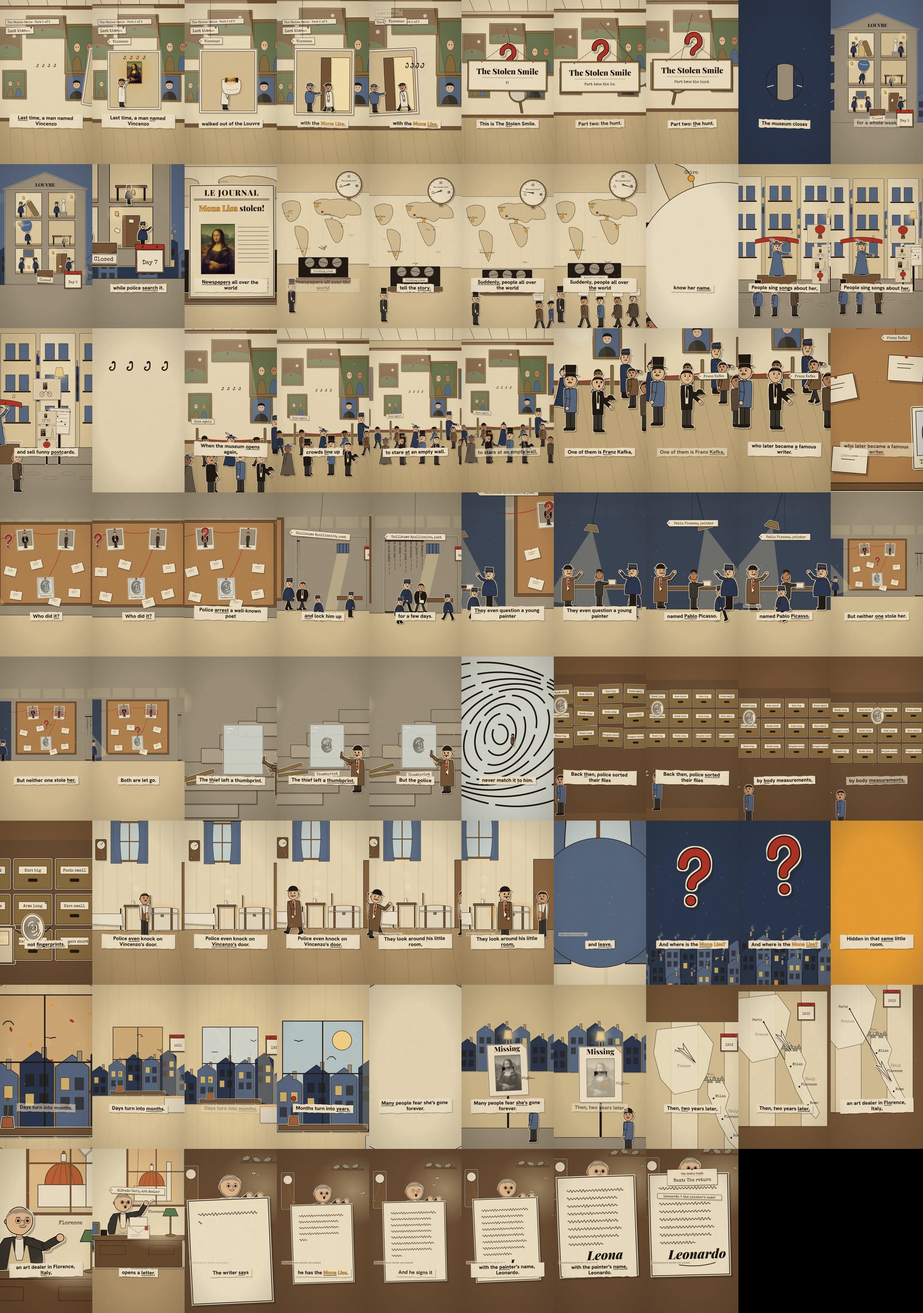
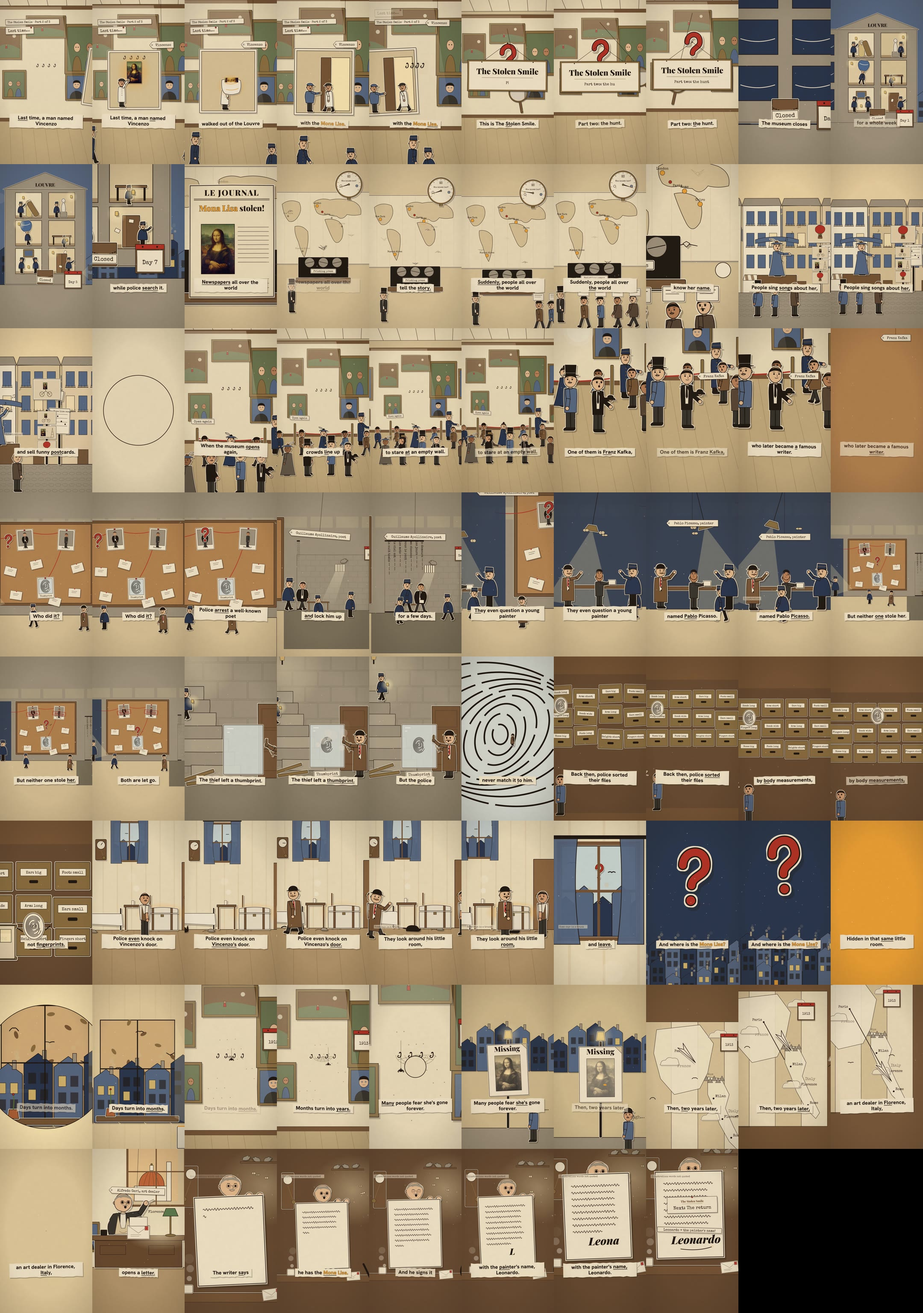
Stolen Smile 2 v1.1: continuity fixes (kit staircase, cell, street; poster; web; tags; end card; shorter pushes), motion_check pass

diff --git a/projects/stolen-smile-2/film/src/scenesB.tsx b/projects/stolen-smile-2/film/src/scenesB.tsx
@@ -6,7 +6,7 @@ import B from './beats.json';
 import {C, Cut, Person, Mona, MonaEyes, Hooks, QMark, Label, Calendar, Magnifier, Stamp, Print, NameTag, rect, ell, ramp, lin, osc, mix, settle, step2, SHADOW, TYPE, SERIF} from './look';
 import {Spider} from './series/characters';
 import {Trunk as KTrunk, Letter as KLetter, Newspaper, Postcard as KPostcard} from './series/props';
-import {LittleRoom, GeriDesk, PaperMap, MAP_CITIES} from './series/sets';
+import {LittleRoom, GeriDesk, PaperMap, MAP_CITIES, Staircase, PrisonCell} from './series/sets';
 import {camAt, Plane, SalonWall, Crowd, Ground, Lamp, Rooftops} from './world';
 
 const CORK = '#B98A5A';
@@ -75,11 +75,8 @@ export const S6: React.FC<{t: number}> = ({t}) => {
         <Stamp x={300} y={560} text="Not him" k={lin(t, B.neither + 0.2, 0.12)} size={46} />
         <Stamp x={780} y={560} text="Not him" k={lin(t, B.neither + 0.75, 0.12)} size={46} rot={6} />
         {/* the cell: stone room, door of bars made of handwriting */}
-        <Cut d={rect(1250, 560, 820, 860, 4)} fill={C.stone} />
-        <rect x={1720} y={640} width={140} height={110} fill={C.duskBlue} stroke={C.ink} strokeWidth={4} />
-        {[1750, 1790, 1830].map((x) => <line key={x} x1={x} y1={640} x2={x} y2={750} stroke={C.ink} strokeWidth={6} />)}
-        <path d={`M1720,750 L${1560 + osc(t, 0.1) * 20},1420 L${1700 + osc(t, 0.1) * 20},1420 L1860,750 Z`} fill="#FFF1C8" opacity={0.35} />
-        <Cut d={rect(1720, 1250, 300, 50, 4)} fill={C.sepia} sw={3} />
+        {/* the kit's prison cell (part 3 uses it), at half scale: x 1250..2090, floor 1420 */}
+        <g transform="translate(1400,670) scale(0.5)"><PrisonCell fr={Math.round(t * 30)} only={['mid', 'actors']} /></g>
         <Person x={poetX} y={1420} s={0.6} coat={C.ink} hat="none" wide={1.35} skin={C.skin[1]} collar walk={walkIn > 0 && walkIn < 1 || (out > 0 && out < 1) ? tt * 1.5 : undefined}
           flip={out > 0} mouth={out > 0 ? 'smile' : 'flat'} brows={shut > 0.5 ? 'worried' : 'flat'} aR={t > B.lock + 0.3 && out === 0 ? [80, 60] : undefined}
           holdR={t > B.lock + 0.3 && out === 0 ? <Cut d={rect(-26, -20, 52, 36, 2)} fill={C.card} sw={2} rim={false} /> : undefined} />
@@ -99,6 +96,11 @@ export const S6: React.FC<{t: number}> = ({t}) => {
           <path d={`M0,400 L-300,1100 L300,1100 Z`} fill="#FFF1C8" opacity={0.28} />
           <Cut d="M-60,420 L60,420 L34,370 L-34,370 Z" fill={C.oldGold} sw={3} />
         </g>
+        {[0, 1, 2].map((m) => { const mx = -550 + Math.sin(t * (2.6 + m * 0.7) + m * 2) * (90 + m * 30), my = 760 + Math.cos(t * (2.1 + m * 0.5) + m) * 60; const fl = Math.abs(Math.sin(t * 38 + m));
+          return <g key={m} transform={`translate(${mx},${my})`}><ellipse cx={-10} cy={0} rx={16} ry={6 + fl * 9} fill={C.paperShade} stroke={C.ink} strokeWidth={2} /><ellipse cx={10} cy={0} rx={16} ry={6 + fl * 9} fill={C.paperShade} stroke={C.ink} strokeWidth={2} /></g>; })}
+        <Person x={540 + Math.sin(t * 0.7 + 1) * 420} y={1560} s={0.45} role="police" walk={t * 1.2 + 3} flip={Math.cos(t * 0.7 + 1) < 0} />
+        <Person x={540 + Math.sin(t * 0.55 + 4) * 480} y={1600} s={0.5} role="detective" walk={t * 1.1 + 1} flip={Math.cos(t * 0.55 + 4) < 0} />
+        {(() => { const hop = Math.max(0, Math.sin(t * 2.7)) * 16; const px = 1760 + Math.sin(t * 0.6) * 40; return <g transform={`translate(${px},${875 - hop}) scale(${Math.cos(t * 0.6) > 0 ? 1 : -1},1)`}><Cut d="M-36,0 Q-40,-36 -4,-40 Q24,-60 40,-36 L52,-30 L36,-24 Q34,8 -36,0 Z" fill={C.stone} sw={2.5} rim={false} /><circle cx={26} cy={-40} r={3.5} fill={C.ink} /></g>; })()}
         <Cut d={rect(-860, 1230, 640, 30, 4)} fill={C.sepia} sw={3} />
         <rect x={-830} y={1260} width={18} height={160} fill={C.ink} /><rect x={-270} y={1260} width={18} height={160} fill={C.ink} />
         <Person x={pcOut > 0 ? mix(-550, 120, pcOut) : -550} y={1420} s={0.58} coat="#3E3A36" hat="none" skin={C.skin[2]} tall={0.95}
@@ -144,21 +146,23 @@ export const S7: React.FC<{t: number}> = ({t}) => {
         <Plane cam={cam} d={1}>
           <g transform={`translate(640,1060) scale(${z}) translate(-640,-1060)`}>
             {/* the back staircase from part 1 */}
-            {[...Array(8)].map((_, i) => <Cut key={i} d={rect(-300 + i * 150, 1500 - i * 110, 900, 120, 3)} fill={i % 2 ? C.stone : '#B4AB9B'} sw={3} rim={false} />)}
-            <Lamp x={120} y={900} h={160} />
+            {/* the kit's back staircase from part 1 (floor 1500 drawn at 1300 here) */}
+            <g transform="translate(0,-200)"><Staircase fr={Math.round(t * 30)} only={['backdrop', 'mid', 'actors']} /></g>
             {/* empty frame bars and the glass box on the steps */}
             <g transform="translate(250,1290) rotate(-18)"><Cut d={rect(-160, -14, 320, 28, 3)} fill={C.oldGold} sw={3} /></g>
             <g transform="translate(320,1330) rotate(-8)"><Cut d={rect(-140, -14, 280, 28, 3)} fill={C.oldGold} sw={3} /></g>
             <Cut d={rect(480, 870, 320, 400, 6)} fill={C.glass} sw={3} op={0.9} />
             <path d="M510,900 L560,900 M510,930 L530,930" stroke="#fff" strokeWidth={6} />
+            {[0, 1].map((q) => { const u = (t * 0.18 + q * 0.5) % 1; const up = u < 0.5; const k2 = up ? u * 2 : (1 - u) * 2; const sx = -120 + k2 * 420, sy = 1280 - k2 * 640;
+              return <g key={q}><Person x={sx} y={sy} s={0.42} role="police" walk={t * 1.3 + q} flip={!up} /><g transform={`translate(${sx + 50},${sy - 150 + Math.sin(t * 3 + q) * 6})`}><ellipse rx={60} ry={60} fill="url(#lampGlow)" /><Cut d={rect(-10, -14, 20, 26, 3)} fill="#E8C979" sw={2} rim={false} /></g></g>; })}
             {printK > 0 && <Print x={640} y={1060} s={0.9} op={printK} />}
             {/* powder cloud */}
-            {[...Array(10)].map((_, i) => { const u = (dust * 3 + i * 0.1) % 1; return dust > 0 && dust < 1 ? <circle key={i} cx={640 + osc(i, 0.37) * 80 + u * 60} cy={1060 - u * 90 + osc(i, 0.21) * 40} r={10 + u * 30} fill="#EDE8DD" opacity={0.6 * (1 - u)} /> : null; })}
+            {[...Array(10)].map((_, i) => { const u = (dust * 3 + i * 0.1) % 1; return dust > 0 && dust < 1 ? <circle key={i} cx={640 + osc(i, 0.37) * 120 + u * 90} cy={1060 - u * 140 + osc(i, 0.21) * 60} r={18 + u * 40} fill="#EDE8DD" opacity={0.6 * (1 - u)} /> : null; })}
             <Label x={640} y={1330} text="Thumbprint" size={34} op={printK} rot={-2} />
           </g>
           {/* the detective with brush and magnifier */}
           <g opacity={1 - dive}>
-            <Person x={mix(960, 900, dust)} y={1500} s={0.75} role="detective" brows="up" flip aR={[100 + osc(tt, 2) * 20 * (dust < 1 ? 1 : 0), 30]} aL={[60, 40]}
+            <Person x={mix(980, 920, dust)} y={1360} s={0.75} role="detective" brows="up" flip aR={[100 + osc(tt, 2) * 20 * (dust < 1 ? 1 : 0), 30]} aL={[60, 40]}
               holdR={<Cut d={rect(-8, -50, 16, 60, 4)} fill={C.sepia} sw={2} rim={false} />} hold={<g transform="scale(0.25)"><Magnifier x={0} y={-100} /></g>} />
           </g>
           {/* inside the print: maze ridges with a tiny detective, straightening into drawers */}
@@ -179,9 +183,10 @@ export const S7: React.FC<{t: number}> = ({t}) => {
         <rect x={-300} y={300} width={1700} height={1500} fill="#6B5038" />
         {DRAWERS.map((lab, i) => {
           const open = i === di && dk > 0.5 ? Math.sin(lin(t, tries[ti][0] + 0.15, 0.6) * Math.PI) * 30 : 0;
+          const idle = i % 3 === 1 && i !== 9 ? Math.max(0, Math.sin(t * (1.1 + i * 0.13) + i)) * 26 : 0;
           const slide = i === 9 ? roomDrawer : 0;
           return (
-            <g key={i} transform={`translate(${dx(i)},${dy(i) + (1 - straighten) * osc(i, 0.3) * 120}) rotate(${(1 - straighten) * (i * 23 % 40 - 20)}) scale(${1 + slide * 0.3})`}>
+            <g key={i} transform={`translate(${dx(i)},${dy(i) + idle + (1 - straighten) * osc(i, 0.3) * 120}) rotate(${(1 - straighten) * (i * 23 % 40 - 20)}) scale(${1 + slide * 0.3 + idle * 0.004})`}>
               <Cut d={rect(-120, -95 + open * 0.3, 240, 190, 4)} fill={C.oldGold} sw={3} />
               <rect x={-92} y={-50} width={184} height={50} fill={C.card} stroke={C.ink} strokeWidth={2} />
               <text x={0} y={-16} textAnchor="middle" fontFamily={TYPE} fontSize={26} fill={C.ink}>{lab}</text>
@@ -212,6 +217,15 @@ export const S7_OUT = {x: 540, y: 960, color: C.paper};
 
 // ------------------------------------------------------------------ 8. the little room: the search (hot/cold), then the reveal
 // layout: door (x 60), bed (150-430), stove (520), table+chair (650), trunk (800-1000), window (760-980, y 520-820)
+// what Vincenzo's window shows: Paris rooftops, chimney smoke, birds; the red "?" rises over the city as the police leave
+const WindowView: React.FC<{t: number; q: number}> = ({t, q}) => (
+  <g>
+    {[0, 1, 2, 3, 4].map((i) => <g key={i}><path d={`M${-20 + i * 70},340 L${-20 + i * 70},${220 - (i % 2) * 40} L${15 + i * 70},${190 - (i % 2) * 40} L${50 + i * 70},${220 - (i % 2) * 40} L${50 + i * 70},340 Z`} fill={i % 2 ? C.duskBlue : C.nightBlue} stroke={C.ink} strokeWidth={2} />
+      <circle cx={30 + i * 70 + Math.sin(t * 0.8 + i) * 6} cy={170 - ((t * 20 + i * 17) % 60)} r={6 + ((t * 20 + i * 17) % 60) * 0.12} fill={C.paperShade} opacity={0.6 * (1 - ((t * 20 + i * 17) % 60) / 60)} /></g>)}
+    {[0, 1].map((i) => { const u = (t * 0.25 + i * 0.5) % 1; return <path key={i} d={`M${u * 300 - 10},${60 + i * 40 - Math.sin(t * 12 + i) * 6} q8,-6 14,0 q6,-6 14,0`} fill="none" stroke={C.ink} strokeWidth={3} />; })}
+    {q > 0 && <g transform={`translate(140,${200 - q * 110}) scale(${0.35 * q})`}><QMark x={0} y={0} s={1} /></g>}
+  </g>
+);
 export const Room: React.FC<{t: number; phase: 'search' | 'reveal'}> = ({t, phase}) => {
   // the kit's LittleRoom (floor 1500) drawn 120 higher so its floor is this part's 1380; my door on the right.
   const fr = Math.round(t * 30);
@@ -230,7 +244,7 @@ export const Room: React.FC<{t: number; phase: 'search' | 'reveal'}> = ({t, phas
   const lidUp = phase === 'reveal' ? ramp(t, B.hidden + 0.1, 0.6) : peek * 0.18;
   const leak = phase === 'reveal' ? 0.6 + lidUp * 0.4 : 0.25 + hot * 0.75;
   const doorOpen = phase === 'search' ? Math.max(ramp(t, B.knock + 0.35, 0.3) * (1 - ramp(t, B.knock + 1.5, 0.3)), ramp(t, B.leave + 0.4, 0.3) * (1 - ramp(t, B.leave + 1.3, 0.3))) : 0;
-  const R = (only: ('backdrop' | 'mid' | 'actors')[]) => <g transform="translate(0,-120)"><LittleRoom fr={fr} only={only} curtain={curtain} bedSheet={crouch} night={false} /></g>;
+  const R = (only: ('backdrop' | 'mid' | 'actors')[]) => <g transform="translate(0,-120)"><LittleRoom fr={fr} only={only} curtain={curtain} bedSheet={crouch} night={false} windowView={<WindowView t={t} q={phase === 'search' ? ramp(t, B.leave + 0.3, 0.6) : 0} />} /></g>;
   return (
     <g>
       {R(['backdrop', 'mid'])}
@@ -245,6 +259,9 @@ export const Room: React.FC<{t: number; phase: 'search' | 'reveal'}> = ({t, phas
       {R(['actors'])}
       {/* steam from the cup on the table */}
       {[0, 1, 2].map((q) => { const uu = (t * 0.55 + q / 3) % 1; return <circle key={q} cx={590 + Math.sin(uu * 6 + q) * 26 + uu * 30} cy={1090 - uu * 300} r={18 + uu * 34} fill="#FFFFFF" opacity={0.5 * (1 - uu)} />; })}
+      {(() => { const u = (t * 0.16) % 1; const mx = -100 + u * 1400; const cx2 = mx - 260 + Math.sin(t * 2) * 20;
+        return <g><g transform={`translate(${mx},${1400})`}><Cut d="M-26,0 Q-28,-24 0,-24 Q24,-24 30,-6 L44,-2 L30,2 Q20,6 -26,0 Z" fill={C.stone} sw={2.5} rim={false} /><path d="M-26,-4 q-30,-10 -50,6" fill="none" stroke={C.ink} strokeWidth={3} /></g>
+          <g transform={`translate(${cx2},${1410 - Math.abs(Math.sin(t * 6)) * 12})`}><Cut d="M-60,0 Q-64,-50 -10,-52 Q40,-52 50,-30 L66,-60 L70,-24 Q74,6 40,4 Z" fill={C.ink} sw={2.5} rim={false} /><path d={`M-60,-20 q-40,${-30 + Math.sin(t * 5) * 20} -70,-10`} fill="none" stroke={C.ink} strokeWidth={8} strokeLinecap="round" /><circle cx={52} cy={-34} r={4} fill={C.glow} /></g></g>; })()}
       {/* the white trunk, amber leaking from the crack: hot when the detective is near */}
       <KTrunk fr={fr} x={860} y={1380} size={0.95} lid={lidUp} leak={leak} eyes={phase === 'search' ? peek : 0} />
       {phase === 'reveal' && lidUp > 0.1 && <g opacity={lidUp}><Mona x={860} y={1080 - lidUp * 30} h={250} glow={0.9} glintAt={Math.round((B.same + 0.3) * 30)} /></g>}
@@ -294,7 +311,7 @@ export const S8c_OUT = {x: 540, y: 900, color: '#FFF1C8'};
 // ------------------------------------------------------------------ 9. years at the window; the web on the hooks; the Missing poster
 export const S9a: React.FC<{t: number}> = ({t}) => {
   const a = B.l14;
-  const cam = camAt(t, [[a - 0.3, 540, 900, 1.6], [a + 0.8, 540, 960, 1.0], [B.years, 540, 900, 1.15], [B.l15 - 0.9, 540, 830, 1.6], [B.l15 - 0.4, 540, 820, 3.0]]);
+  const cam = camAt(t, [[a - 0.3, 540, 900, 1.6], [a + 0.6, 540, 960, 1.0], [B.l14 + 0.8, 540, 860, 1.5], [B.l14 + 1.3, 540, 820, 3.0]]);
   const yr = t < B.months ? '1911' : t < B.years ? '1912' : '1913';
   const prev = t < B.months ? undefined : t < B.years ? '1911' : '1912';
   const tk = lin(t, t < B.years ? B.months : B.years, 0.5);
@@ -307,8 +324,8 @@ export const S9a: React.FC<{t: number}> = ({t}) => {
       {[...Array(18)].map((_, i) => <line key={i} x1={-760 + i * 120} y1={-800} x2={-760 + i * 120} y2={2800} stroke={C.paperShade} strokeWidth={10} opacity={0.5} />)}
       {/* the window, big; outside the seasons cycle */}
       <rect x={250} y={500} width={580} height={760} fill={sky} stroke={C.ink} strokeWidth={6} />
-      {season >= 1 && season < 2 && [...Array(24)].map((_, i) => <circle key={i} cx={260 + ((i * 97 + t * 30) % 560)} cy={500 + ((i * 131 + t * 160) % 760)} r={6} fill="#fff" />)}
-      {season < 1 && [...Array(10)].map((_, i) => <ellipse key={i} cx={260 + ((i * 113 + t * 120) % 560)} cy={500 + ((i * 89 + t * 140) % 760)} rx={14} ry={7} fill={i % 2 ? C.clueRed : C.amber} transform={`rotate(${t * 200 + i * 40},${260 + ((i * 113 + t * 120) % 560)},${500 + ((i * 89 + t * 140) % 760)})`} />)}
+      {season >= 1 && season < 2 && [...Array(24)].map((_, i) => <circle key={i} cx={260 + ((i * 97 + t * 30) % 560)} cy={500 + ((i * 131 + t * 160) % 760)} r={i % 3 ? 10 : 16} fill="#fff" stroke={C.stone} strokeWidth={1.5} />)}
+      {season < 1 && [...Array(10)].map((_, i) => <ellipse key={i} cx={260 + ((i * 113 + t * 120) % 560)} cy={500 + ((i * 89 + t * 140) % 760)} rx={26} ry={13} fill={i % 2 ? C.sepia : C.oldGold} transform={`rotate(${t * 200 + i * 40},${260 + ((i * 113 + t * 120) % 560)},${500 + ((i * 89 + t * 140) % 760)})`} />)}
       {season >= 2 && <circle cx={680} cy={640} r={70} fill="#FFE39A" stroke={C.ink} strokeWidth={3} />}
       {[0, 1, 2].map((q) => { const u = (t * 0.35 + q * 0.37) % 1; const bx = 230 + u * 640, by = 620 + q * 140 + Math.sin(u * 9 + q) * 30; const fl = Math.sin(t * 14 + q * 2) * 18;
         return <path key={q} d={`M${bx - 30},${by - fl} Q${bx - 12},${by - 8} ${bx},${by} Q${bx + 12},${by - 8} ${bx + 30},${by - fl}`} fill="none" stroke={C.ink} strokeWidth={5} strokeLinecap="round" />; })}
@@ -329,14 +346,16 @@ export const S9a: React.FC<{t: number}> = ({t}) => {
   );
 };
 export const S9a_OUT = {x: 540, y: 880, color: C.paper};
+export const S9b_START = B.l14 + 1.3;
 export const S9b: React.FC<{t: number}> = ({t}) => {
-  const cam = camAt(t, [[B.l15 - 0.4, 540, 760, 2.6], [B.l15 + 0.4, 540, 820, 1.4], [B.fear + 0.2, 540, 800, 1.7]]);
-  const web = lin(t, B.l15 - 0.4, 1.4);
+  const cam = camAt(t, [[S9b_START, 540, 760, 2.6], [S9b_START + 0.8, 540, 820, 1.4], [B.fear + 0.2, 540, 800, 1.7]]);
+  const web = lin(t, S9b_START, B.fear - S9b_START);
   const spX = mix(450, 630, (osc(t, 0.6) + 1) / 2), spY = 740 + web * 80;
   return (
     <SalonWall cam={cam} t={t} state="empty+web" web={web}>
       <Plane cam={cam} d={1}>
         <Spider fr={Math.round(t * 30)} x={spX} y={spY} size={1.4} thread={spY - 700} />
+        <Calendar x={860} y={620} s={0.8} page={t < B.years ? '1912' : '1913'} prev={t < B.years ? undefined : '1912'} k={lin(t, B.years, 0.8)} />
         {/* dust settling */}
         {[...Array(18)].map((_, i) => <circle key={i} cx={380 + ((i * 53) % 320) + osc(t, 0.2, i * 0.13) * 20} cy={600 + ((i * 71 + t * 30) % 500)} r={3} fill={C.sepia} opacity={0.5} />)}
       </Plane>
@@ -360,19 +379,15 @@ export const S9c: React.FC<{t: number}> = ({t}) => {
           <Cut d={rect(-200, -270, 400, 520, 3)} fill={C.card} sw={3} />
           <path d={`M200,-270 l${-50 - osc(t, 1.1) * 20},0 l${50 + osc(t, 1.1) * 20},${50 + osc(t, 1.1) * 20} Z`} fill={C.paperShade} stroke={C.ink} strokeWidth={2} />
           <text x={0} y={-200} textAnchor="middle" fontFamily={SERIF} fontWeight={900} fontSize={70} fill={C.ink}>Missing</text>
-          <g opacity={1 - fade * 0.85}><image href={staticFile('monalisa.jpg')} x={-130} y={-160} width={260} height={360} preserveAspectRatio="xMidYMin slice" style={{filter: 'grayscale(1) contrast(1.2)'}} /></g>
-          {/* the smile stays: a crop of the real mouth */}
-          <svg x={-60} y={-40} width={120} height={50} viewBox="235 335 130 54" preserveAspectRatio="xMidYMid slice">
-            <image href={staticFile('monalisa.jpg')} x={0} y={0} width={600} height={894} style={{filter: 'grayscale(1) contrast(1.2)'}} />
-          </svg>
-          <rect x={-130} y={-160} width={260} height={360} fill="url(#halftone)" opacity={0.15 * (1 - fade)} />
+          {/* her full photo as a sepia print, fading in the sun (never covered) */}
+          <g opacity={1 - fade * 0.55} style={{filter: 'sepia(0.85)'}}><image href={staticFile('monalisa.jpg')} x={-130} y={-160} width={260} height={360} preserveAspectRatio="xMidYMid slice" /></g>
           <rect x={-130} y={-160} width={260} height={360} fill="none" stroke={C.ink} strokeWidth={2} />
         </g>
         {/* leaves blow past */}
         {[...Array(8)].map((_, i) => { const u = ((t * 0.5 + i * 0.125) % 1); return <ellipse key={i} cx={-100 + u * 1300} cy={700 + i * 90 + Math.sin(u * 8 + i) * 40} rx={16} ry={8} fill={i % 2 ? C.amber : C.clueRed} transform={`rotate(${u * 600})`} />; })}
         {/* a passer-by sighs */}
         <Person x={mix(1050, 820, ramp(t, B.fear, 1.0))} y={1700} s={0.72} coat={C.duskBlue} hat="bowler" tache flip brows="worried" mouth="frown" walk={t < B.fear + 1.0 ? tt * 1.4 : undefined} bob={osc(t, 0.4) * 4} look={-1} lookY={-1} />
-        {t > B.fear + 1.0 && <text x={700} y={1060} fontFamily={TYPE} fontSize={40} fill={C.ink} opacity={1 - lin(t, B.fear + 2.0, 0.8)}>sigh…</text>}
+        {t > B.fear + 1.0 && <text x={840} y={1380} fontFamily={TYPE} fontSize={40} fill={C.ink} opacity={1 - lin(t, B.fear + 2.0, 0.8)}>sigh…</text>}
       </Plane>
     </>
   );
@@ -392,6 +407,8 @@ export const S10a: React.FC<{t: number}> = ({t}) => {
       <Plane cam={cam} d={0.2}><PaperMap fr={fr} only={['backdrop']} view="europe" /></Plane>
       <Plane cam={cam} d={1}>
         <PaperMap fr={fr} only={['mid', 'actors']} view="europe" route={['Paris', 'Florence']} routeP={u} dot={flo > 0.5 ? P1 : undefined} />
+        {[0, 1, 2, 3].map((q) => <g key={q} transform={`translate(${((t * (14 + q * 9) + q * 300) % 1400) - 200},${450 + q * 280})`} opacity={0.8}><Cut d="M-90,0 Q-90,-40 -40,-40 Q-20,-80 30,-60 Q90,-70 90,-20 Q110,10 70,12 L-80,12 Q-110,10 -90,0 Z" fill={C.card} sw={2.5} /></g>)}
+        {[0, 1, 2].map((q) => { const u = (t * 0.2 + q * 0.33) % 1; const bx = 1150 - u * 1300, by = 900 + q * 160 + Math.sin(u * 8) * 40; const fl = Math.sin(t * 13 + q) * 16; return <path key={q} d={`M${bx - 28},${by - fl} Q${bx - 10},${by - 8} ${bx},${by} Q${bx + 10},${by - 8} ${bx + 28},${by - fl}`} fill="none" stroke={C.ink} strokeWidth={5} strokeLinecap="round" />; })}
         <g opacity={flo} transform={`translate(${P1[0]},${P1[1] + 80}) scale(${1 + 0.2 * flo})`}><Label x={0} y={0} text="Florence, Italy" size={40} /></g>
         <Calendar x={860} y={520} s={0.9} page="1913" prev="1912" k={lin(t, a + 0.3, 0.8)} />
         {/* the poster, now a paper plane, then an envelope */}
@@ -451,7 +468,7 @@ export const S11: React.FC<{t: number}> = ({t}) => {
         {[0, 1, 2].map((q) => { const hop = Math.max(0, Math.sin(t * (2.2 + q * 0.6) + q * 2)) * 18; return <g key={q} transform={`translate(${700 + q * 110},${250 - hop}) scale(${q % 2 ? -1 : 1},1)`}>
           <Cut d="M-36,0 Q-40,-36 -4,-40 Q24,-60 40,-36 L52,-30 L36,-24 Q34,8 -36,0 Z" fill={C.stone} sw={2.5} rim={false} /><circle cx={26} cy={-40} r={3.5} fill={C.ink} /></g>; })}
         <rect x={640} y={250} width={380} height={18} fill={C.sepia} stroke={C.ink} strokeWidth={2} />
-        {[0, 1].map((m) => { const mx = 880 + Math.sin(t * (3.1 + m) + m * 2) * 120 + Math.sin(t * 7.3 + m) * 20, my = 460 + Math.cos(t * (2.3 + m * 0.7)) * 90; const fl = Math.abs(Math.sin(t * 40 + m)); return <g key={m} transform={`translate(${mx},${my})`}><ellipse cx={-8} cy={0} rx={12} ry={6 + fl * 6} fill={C.paperShade} stroke={C.ink} strokeWidth={2} /><ellipse cx={8} cy={0} rx={12} ry={6 + fl * 6} fill={C.paperShade} stroke={C.ink} strokeWidth={2} /></g>; })}
+        {[0, 1, 2].map((m) => { const mx = 880 + Math.sin(t * (3.1 + m) + m * 2) * 120 + Math.sin(t * 7.3 + m) * 20, my = 460 + Math.cos(t * (2.3 + m * 0.7)) * 90; const fl = Math.abs(Math.sin(t * 40 + m)); return <g key={m} transform={`translate(${mx},${my})`}><ellipse cx={-8} cy={0} rx={12} ry={6 + fl * 6} fill={C.paperShade} stroke={C.ink} strokeWidth={2} /><ellipse cx={8} cy={0} rx={12} ry={6 + fl * 6} fill={C.paperShade} stroke={C.ink} strokeWidth={2} /></g>; })}
       </Plane>
       <Plane cam={cam} d={0.75}>
         {/* Geri rises above the letter: eyebrows up, pince-nez slipping */}
@@ -460,8 +477,15 @@ export const S11: React.FC<{t: number}> = ({t}) => {
         </g>
       </Plane>
       <Plane cam={cam} d={1}>
-        <KLetter fr={Math.round(t * 30)} x={540} y={1150} size={2.05} rot={-2 + osc(t, 0.3) * 0.6} write={lines} sign={sig} dropAt={Math.round((B.leonardo + 0.9) * 30)} />
-        {sig >= 1 && <g opacity={ramp(t, B.leonardo + 0.3, 0.3)} transform={`rotate(${3 + osc(t, 0.5) * 1.5},540,900)`}><Label x={540} y={900} text="Leonardo = the painter's name!" size={30} /></g>}
+        {/* Geri's desk under the letter: steaming cup, the opened envelope, the shop cat's tail */}
+        <Cut d={rect(-300, 1520, 1700, 80, 6)} fill={C.sepia} />
+        <rect x={-300} y={1600} width={1700} height={600} fill="#6B5038" />
+        <g transform="translate(170,1520)"><Cut d={rect(-40, -70, 80, 70, 10)} fill={C.card} sw={2.5} />
+          {[0, 1, 2].map((q) => { const uu = (t * 0.6 + q / 3) % 1; return <circle key={q} cx={Math.sin(uu * 6 + q) * 26 + uu * 24} cy={-90 - uu * 260} r={18 + uu * 30} fill="#FFFFFF" opacity={0.5 * (1 - uu)} />; })}</g>
+        <g transform={`translate(900,1530) rotate(${-8 + Math.sin(t * 1.3) * 4})`}><KLetter fr={Math.round(t * 30)} x={0} y={0} size={0.45} envelope /></g>
+        <path d={`M1100,1560 q-60,${-80 + Math.sin(t * 2.2) * 50} ${-40 + Math.sin(t * 1.7) * 60},-170`} fill="none" stroke={C.ink} strokeWidth={22} strokeLinecap="round" />
+        <KLetter fr={Math.round(t * 30)} x={540} y={1060} size={1.75} rot={-2 + osc(t, 0.3) * 0.6} write={lines} sign={sig} dropAt={Math.round((B.leonardo + 0.9) * 30)} />
+        {sig >= 1 && <g opacity={ramp(t, B.leonardo + 0.3, 0.3)} transform={`rotate(${3 + osc(t, 0.5) * 1.5},540,1200)`}><Label x={540} y={1200} text="Leonardo = the painter's name!" size={30} /></g>}
       </Plane>
     </>
   );

diff --git a/projects/stolen-smile-2/film/src/Film.tsx b/projects/stolen-smile-2/film/src/Film.tsx
@@ -12,7 +12,7 @@ import {Captions as KitCaptions, CapChunk} from './series/captions';
 import {CornerTab as KCornerTab, LastTime as KLastTime, TitleCard, EndCard as KEndCard, NameTag as KNameTag, HonestyTag} from './series/cards';
 import {C, Defs, Grade, NameTag, SANS, TYPE, SERIF, ramp, lin, osc, Cut, rect} from './look';
 import {S1, S1_OUT, S2, S2_OUT, S3, S3_OUT, S4, S4_OUT, S5, S5_OUT} from './scenesA';
-import {S6, S6_OUT, S7, S7_OUT, S8a, S8a_OUT, S8b, S8b_OUT, S8c, S8c_OUT, S9a, S9a_OUT, S9b, S9b_OUT, S9c, S9c_OUT, S10a, S10a_OUT, S10b, S10b_OUT, S11} from './scenesB';
+import {S6, S6_OUT, S7, S7_OUT, S8a, S8a_OUT, S8b, S8b_OUT, S8c, S8c_OUT, S9a, S9a_OUT, S9b, S9b_OUT, S9b_START, S9c, S9c_OUT, S10a, S10a_OUT, S10b, S10b_OUT, S11} from './scenesB';
 
 export const FPS = 30;
 export const DUR = Math.round(B.total * FPS);
@@ -21,11 +21,11 @@ type Out = {x: number; y: number; color: string};
 const STAGES: [number, React.FC<{t: number}>, Out | null][] = [
   [0, S1, S1_OUT], [B.l2 - 0.3, S2, S2_OUT], [B.l3 - 0.3, S3, S3_OUT], [B.l4 - 0.3, S4, S4_OUT], [B.l5 - 0.3, S5, S5_OUT],
   [B.l7 - 0.3, S6, S6_OUT], [B.l10 - 0.3, S7, S7_OUT], [B.l12 - 0.3, S8a, S8a_OUT], [B.l13 - 0.15, S8b, S8b_OUT],
-  [B.hidden + 0.6, S8c, S8c_OUT], [B.l14 - 0.3, S9a, S9a_OUT], [B.l15 - 0.4, S9b, S9b_OUT], [B.fear + 0.4, S9c, S9c_OUT],
+  [B.hidden + 0.6, S8c, S8c_OUT], [B.l14 - 0.3, S9a, S9a_OUT], [S9b_START, S9b, S9b_OUT], [B.fear + 0.4, S9c, S9c_OUT],
   [B.l16 + 0.2, S10a, S10a_OUT], [B.florence + 1.0, S10b, S10b_OUT], [B.l17 - 0.1, S11, null],
 ];
 export const BOUNDS = STAGES.map((s) => s[0]);
-const PUSH = 0.38; // seconds each side of a hand-off
+const PUSH = 0.22; // ~7 frames each side: the colour flood covers the frame only for an instant (continuity v1 note) // seconds each side of a hand-off
 
 const LINES = [
   'Last time, a man named Vincenzo', 'walked out of the Louvre', 'with the Mona Lisa.',
@@ -152,8 +152,8 @@ export const Film: React.FC<{captions?: boolean}> = ({captions = true}) => {
         <circle cx={ox} cy={oy} r={pOut * pOut * 1500} fill={out!.color} stroke={C.ink} strokeWidth={6} />
       </svg>}
       {pIn > 0 && prevOut && <svg width={1080} height={1920} style={{position: 'absolute', inset: 0}}>
-        <path d={`M0,0 H1080 V1920 H0 Z M540,${960 - pIn * pIn * 1500} a${pIn * pIn * 1500},${pIn * pIn * 1500} 0 1,0 0.1,0 Z`} fillRule="evenodd" fill={prevOut.color} />
-        <circle cx={540} cy={960} r={pIn * pIn * 1500} fill="none" stroke={C.ink} strokeWidth={6} />
+        <path d={`M0,0 H1080 V1920 H0 Z M540,${960 - (1 - pIn) * (1 - pIn) * 1500} a${(1 - pIn) * (1 - pIn) * 1500},${(1 - pIn) * (1 - pIn) * 1500} 0 1,0 0.1,0 Z`} fillRule="evenodd" fill={prevOut.color} />
+        <circle cx={540} cy={960} r={(1 - pIn) * (1 - pIn) * 1500} fill="none" stroke={C.ink} strokeWidth={6} />
       </svg>}
       {/* dust motes in the stage light: each drifts on its own path (the paper world's own life) */}
       <svg width={1080} height={1920} style={{position: 'absolute', inset: 0}}>
@@ -167,19 +167,19 @@ export const Film: React.FC<{captions?: boolean}> = ({captions = true}) => {
       {/* overlays: all from the series kit */}
       <KCornerTab fr={fr} part={2} outAt={f(B.l1 - 0.2)} />
       <KLastTime fr={fr} at={f(0.1)} outAt={f(B.l1 - 0.5)} />
-      <KNameTag fr={fr} at={f(0.8)} text="Vincenzo" x={300} y={480} dur={f(B.l1 - 1.6)} />
+      <KNameTag fr={fr} at={f(0.8)} text="Vincenzo" x={800} y={520} dur={f(B.l1 - 1.6)} />
       <TitleCard fr={fr} at={f(B.l1 + 0.05)} part={2} hangX={540} hangY={520} plateY={900} outAt={f(7.3)} />
       <KNameTag fr={fr} at={f(B.kafka + 0.1)} text="Franz Kafka" x={760} y={560} dur={f(B.l7 - B.kafka - 0.8)} />
       <KNameTag fr={fr} at={f(B.poet)} text="Guillaume Apollinaire, poet" x={540} y={520} dur={f(B.l8 - B.poet - 0.6)} />
       <KNameTag fr={fr} at={f(B.picasso)} text="Pablo Picasso, painter" x={540} y={520} dur={f(B.l9 - B.picasso - 0.5)} />
       <KNameTag fr={fr} at={f(B.florence + 1.5)} text="Alfredo Geri, art dealer" x={540} y={500} dur={f(B.l17 - B.florence - 2.2)} />
-      <HonestyTag fr={fr} at={f(B.postcards - 0.2)} dur={f(B.l5 - B.postcards - 0.3)} text="Illustration" />
-      <HonestyTag fr={fr} at={f(B.picasso + 0.3)} dur={f(B.l9 - B.picasso - 0.6)} text="Illustration" />
-      <HonestyTag fr={fr} at={f(B.look - 0.3)} dur={f(B.l13 - B.look)} text="Some say: in a trunk" />
-      <HonestyTag fr={fr} at={f(B.hidden + 0.7)} dur={f(B.l14 - B.hidden - 1.0)} text="Some say: in a trunk" />
-      <HonestyTag fr={fr} at={f(B.l17 + 0.3)} dur={f(B.total - B.l17 - 0.5)} text="Illustration: words not quoted" />
+      <HonestyTag fr={fr} at={f(B.postcards - 0.2)} dur={f(B.l5 - B.postcards - 0.3)} text="Illustration" y={1250} />
+      <HonestyTag fr={fr} at={f(B.picasso + 0.3)} dur={f(B.l9 - B.picasso - 0.6)} text="Illustration" y={1250} />
+      <HonestyTag fr={fr} at={f(B.look - 0.3)} dur={f(B.l13 - B.look)} text="Some say: in a trunk" y={1250} />
+      <HonestyTag fr={fr} at={f(B.hidden + 0.7)} dur={f(B.l14 - B.hidden - 1.0)} text="Some say: in a trunk" y={1250} />
+      <HonestyTag fr={fr} at={f(B.l17 + 0.3)} dur={f(B.total - B.l17 - 0.5)} text="Illustration: words not quoted" y={330} />
       <KitCaptions fr={fr} chunks={KCHUNKS} show={captions} />
-      <KEndCard fr={fr} at={f(B.total - 1.9)} part={2} x={540} y={330} />
+      <KEndCard fr={fr} at={f(B.total - 1.9)} part={2} x={540} y={655} />
     </SeriesGrade>
   );
 };

diff --git a/projects/stolen-smile-2/film/src/scenesA.tsx b/projects/stolen-smile-2/film/src/scenesA.tsx
@@ -4,6 +4,7 @@ import React from 'react';
 import B from './beats.json';
 import {MonaEyes, C, Cut, Person, Mona, Hooks, QMark, Label, Calendar, Magnifier, rect, ell, ramp, lin, osc, mix, settle, step2, SHADOW, TYPE, SERIF, NameTag} from './look';
 import {FameGauge as KFameGauge, Hooks as KHooks, Newspaper as KNewspaper, Postcard as KPostcard} from './series/props';
+import {ParisStreet} from './series/sets';
 import {Cam, camAt, Plane, SalonWall, Crowd, Ground, Lamp, Headline, Rooftops} from './world';
 
 // ------------------------------------------------------------------ 1. the empty wall, recap, "?" and title
@@ -60,6 +61,11 @@ export const S1: React.FC<{t: number}> = ({t}) => {
           {qIn > 0 && <g transform={`translate(540,${640 - lift * 80}) rotate(${osc(t, 0.5) * 3 + (1 - qIn) * 30})`}><QMark x={0} y={0} s={2.0 * qIn} /></g>}
         </Plane>
         <Plane cam={cam} d={1.2}>
+          {/* part 1's two guards stroll past the empty wall during the recap */}
+          {t < B.l1 + 0.6 && <g opacity={1 - ramp(t, B.l1, 0.5)}>
+            <Person x={-150 + t * 150} y={1700} s={0.62} role="guard" walk={t * 1.3} />
+            <Person x={1250 - t * 130} y={1760} s={0.55} role="police" walk={t * 1.4 + 2} flip />
+          </g>}
           {magIn > 0 && (
             <g opacity={magIn}>
               {drop < 0.05 && <line x1={540} y1={260} x2={mx} y2={my - 100} stroke={C.ink} strokeWidth={3} />}
@@ -275,17 +281,13 @@ export const S4: React.FC<{t: number}> = ({t}) => {
   const flipK = spin - Math.floor(spin);
   return (
     <>
-      <Plane cam={cam} d={0.3}><rect x={-1500} y={-1500} width={4000} height={5000} fill="#D7C6A0" /><Rooftops t={t} y={900} seed="s4" /></Plane>
-      <Plane cam={cam} d={0.65}>
-        {[...Array(6)].map((_, i) => <g key={i}><Cut d={rect(-500 + i * 380, 300, 340, 1100, 4)} fill={i % 2 ? C.paper : '#E4D3AE'} sw={3} />
-          {[0, 1, 2].map((r) => <g key={r}><rect x={-450 + i * 380} y={400 + r * 300} width={90} height={150} fill={C.duskBlue} stroke={C.ink} strokeWidth={3} /><rect x={-320 + i * 380} y={400 + r * 300} width={90} height={150} fill={C.duskBlue} stroke={C.ink} strokeWidth={3} /><rect x={-470 + i * 380} y={555 + r * 300} width={260} height={14} fill={C.ink} /></g>)}</g>)}
-        <Ground y={1400} color={C.stone} />
-      </Plane>
+      {/* the kit's Paris street (floor 1500 drawn at 1560 here), lamp-post at x 900 */}
+      <Plane cam={cam} d={0.2}><g transform="translate(0,60)"><ParisStreet fr={Math.round(t * 30)} only={['backdrop']} lampX={900} /></g></Plane>
+      <Plane cam={cam} d={0.45}><g transform="translate(0,60)"><ParisStreet fr={Math.round(t * 30)} only={['far']} lampX={900} /></g></Plane>
+      <Plane cam={cam} d={0.7}><g transform="translate(0,60)"><ParisStreet fr={Math.round(t * 30)} only={['mid']} lampX={900} /></g></Plane>
       <Plane cam={cam} d={1}>
-        <Ground y={1560} color={C.stone} />
-        {[...Array(12)].map((_, i) => <ellipse key={i} cx={-300 + i * 160} cy={1640 + (i % 2) * 40} rx={60} ry={16} fill="none" stroke={C.ink} strokeWidth={2} opacity={0.4} />)}
+        <g transform="translate(0,60)"><ParisStreet fr={Math.round(t * 30)} only={['actors']} lampX={900} /></g>
         {/* lamp-post with the song sheet the bird became */}
-        <Lamp x={900} y={1560} h={760} />
         <g transform={`translate(900,1180) rotate(${osc(t, 0.8) * 3})`}>
           <g transform={`scale(${0.3 + open * 0.7},1)`}><Cut d={rect(-90, -110, 180, 220, 3)} fill={C.card} sw={2.5} />
             {[0, 1, 2, 3].map((r) => <g key={r}><line x1={-70} y1={-60 + r * 34} x2={70} y2={-60 + r * 34} stroke={C.ink} strokeWidth={1.5} /><circle cx={-50 + r * 34} cy={-66 + r * 34 - (r % 2) * 10} r={6} fill={C.ink} /></g>)}
@@ -293,7 +295,7 @@ export const S4: React.FC<{t: number}> = ({t}) => {
         </g>
         {/* the little stage and the singer */}
         <Cut d={rect(150, 1380, 400, 180, 4)} fill={C.sepia} />
-        <path d="M130,1020 Q350,960 570,1020 L570,1060 Q350,1010 130,1060 Z" fill={C.clueRed} stroke={C.ink} strokeWidth={3} />
+        <path d="M130,1020 Q350,960 570,1020 L570,1060 Q350,1010 130,1060 Z" fill={C.duskBlue} stroke={C.ink} strokeWidth={3} />
         <Person x={350} y={1390} s={0.62} coat={C.duskBlue} hat="feather" gown skin={C.skin[0]} hair={C.sepia} mouth={Math.floor(t * 5) % 2 ? 'open' : 'o'} aR={[90 + osc(tt, 0.7) * 40, 20]} aL={[30, 10]} bob={Math.abs(osc(t, 1)) * 6} />
         {[0, 1, 2, 3].map((i) => { const u = ((t * 0.6 + i * 0.25) % 1); return <text key={i} x={400 + u * 260 + osc(t, 1, i) * 20} y={1050 - u * 260} fontSize={56} fill={C.ink} opacity={1 - u}>{i % 2 ? '♪' : '♫'}</text>; })}
         {/* a small audience */}

diff --git a/projects/stolen-smile-2/film/sound/mix.py b/projects/stolen-smile-2/film/sound/mix.py
@@ -125,7 +125,7 @@ SERIES = set(json.load(open(f'{KIT}/series.json'))['sounds'])
 at = round((B['l1'] + 0.05) * 30) + 16
 label = 'Part two: the hunt'
 CUES = [c for c in CUES if c[1] != 'typewriter'] + [((at + i * 2) / 30, 'typewriter', 0, 'title letter typed') for i, ch in enumerate(label) if ch != ' ']
-CUES += [(B['l0'], 'hook-hum', 0, 'the four empty hooks'), (B['l15'] - 0.2, 'hook-hum', 0, 'empty hooks under the web'),
+CUES += [(B['l0'], 'hook-hum', 0, 'the four empty hooks'), (B['l14'] + 1.3, 'hook-hum', 0, 'empty hooks: the spider starts its web'),
          (B['look'] + 0.8, 'amber-shimmer', 0, 'trunk crack glows hot as the detective nears'), (B['l14'] + 0.2, 'amber-shimmer', 0, 'trunk still glowing at the window')]
 CUES.sort(key=lambda c: c[0])
 ser = [c for c in CUES if c[1] in SERIES]; part = [c for c in CUES if c[1] not in SERIES]

diff --git a/projects/stolen-smile-2/REPORT.md b/projects/stolen-smile-2/REPORT.md
@@ -1,5 +1,30 @@
 # The Stolen Smile, Part 2: "The hunt": report
 
+## v1.1 (current): continuity fixes, 2026-11-07 21:58–22:47 UTC
+**Final file:** `projects/stolen-smile-2/renders/stolen-smile-2_v1.1.mp4` (git-ignored; delivered with SendUserFile).
+2353 frames = 78.43 s. **−13.9 LUFS, −3.8 dBTP** (measured on the MP4). **motion_check PASS:** median movers
+**18.5 vs the bar's 18.5**, no flagged seconds, ≤2-mover seconds 0 % (bar 11 %), nearly still 1 % (bar 36 %).
+Stills replaced with v1.1 frames: `stills/sheet_1fps.jpg`, `stills/hero_6.2s.jpg`, `hero_59.6s.jpg`, `hero_77.6s.jpg`.
+
+| # | Fix asked | Done |
+|---|---|---|
+| 1 | Kit `Staircase` at 42–44 s | Yes: kit set (floor drawn at 1300), my glass pane + thumbprint + frame slats on top; two officers with lanterns search the steps |
+| 2 | Kit `PrisonCell` at 33–34 s | Yes: half scale under the poem-lines door, poet, officers; a pigeon hops at its barred window |
+| 3 | Missing poster unobstructed | Yes: full photo as a sepia print fading in the sun (no crop/bar); "sigh…" moved beside the passer-by |
+| 4 | Spider web inside "days turn into months" | Yes: the web scene now starts at l14 + 1.3 s (≈62 s): kit Salon Carré `empty+web` growing, kit Spider, calendar 1912 → 1913 |
+| 5 | Kit `ParisStreet`, no red | Yes: kit street behind cabaret and postcard stand (lamp-post at x 900 holds the song sheet); my stage awning is now duskBlue. The red balloon on the kit's own `Postcard gag="balloon"` is kit art, left as is. |
+| 6 | Tags legible above caption; Vincenzo tag | Honesty tags at y 1250 (letter's tag top-left at y 330, off the signature). The Vincenzo tag moved right (x 800) instead of being delayed: delaying it past the corner tab's exit (4.7 s) would have put it on the title card. |
+| 7 | Near-empty frames, long floods | Pushes cut to 0.22 s a side (~7 frames, full flood only for an instant); fixed an inverted incoming iris (it shrank instead of growing). Vincenzo's window now shows rooftops and the "?" rising, so 56 s isn't empty. More life: moths + a third officer at the interrogation, drawers sliding, a cat chasing a mouse, bigger snow and leaves, clouds and birds over the map, part 1's guards strolling past in the recap, Geri's desk (steaming cup, envelope, cat's tail) under the letter. |
+| 8 | End card centred, top at y 560 | Yes (centre y 655); Geri's face stays clear above the letter; the "painter's name" tag sits under the card. |
+
+Not re-run for v1.1: the mute test. The changed shots keep the same events, and the shots the judges flagged were
+already fixed in v1. Sound: the hook-hum cue moved to the web scene's new start; the mix is otherwise unchanged
+(music 11.2 dB under the voice).
+
+---
+
+# v1 report (superseded by v1.1 above)
+
 **Final file:** `projects/stolen-smile-2/renders/stolen-smile-2_v1.mp4` (git-ignored; delivered to the session with
 SendUserFile). 1080×1920, 30 fps, **2353 frames = 78.43 s** (last word 76.84 s + 1.6 s tail; series range 70–89 s).
 **Loudness:** −13.9 LUFS integrated, **−3.9 dBTP** true peak, measured on the final MP4 with `ebur128=peak=true`.

diff --git a/projects/stolen-smile-2/film/PLAN.md b/projects/stolen-smile-2/film/PLAN.md
@@ -93,3 +93,13 @@ spanning the switch.
 - Picasso's nervous "cubist" face is a part-only overlay on the kit head (honesty tag "Illustration").
 - Mute test 1 asked for: a label on the press, a clean signature (the kit Letter replaced my glitching stroke text), and
   the alias made explicit ("Leonardo = the painter's name!" tag). Judge 2 recovered all three.
+
+## v1.1 (continuity fixes from the orchestrator's continuity judge, 21:58)
+| Time | Step |
+|---|---|
+| 21:59 | Fixes received (8). continuity-v1.md not on the branch yet; worked from the message. |
+| 22:01 | 1 kit `Staircase` (drawn 200 higher) under my glass + thumbprint + frame slats; 2 kit `PrisonCell` at half scale under the poem-lines door and officers; 3 Missing poster: full photo as a sepia print, no crop bar, "sigh…" moved off her; 4 web scene now starts inside "days turn into months" (l14 + 1.3 s) with the spider spinning across the hooks and the 1912→1913 calendar; 5 kit `ParisStreet` behind the cabaret, stage awning recoloured duskBlue; 6 honesty tags at y 1250 above the caption; 8 end card centred, top at y 560. |
+| 22:03 | 6 (Vincenzo tag): delaying it past the corner tab's exit (4.7 s) would collide with the title card, so it moved right instead (x 800) and its string no longer crosses the tab. 7: pushes cut to 0.22 s a side (~7 frames); Vincenzo's window now shows rooftops and the "?" rising (no empty pane at 56 s). |
+| 22:05–22:18 | motion_check 16 → 17 → 17.5 → 18.5 on previews: moths and a third officer at the interrogation, lantern officers on the stairs, drawers sliding, cat chasing a mouse in the room, bigger snow/leaves, clouds and birds over the map, part 1's guards strolling past during the recap, a third moth at Geri's lamp. |
+| 22:20–22:33 | Full render; signature was under the caption (letter raised), s 74 flagged again → Geri's desk under the letter (steaming cup, envelope, cat's tail); partial re-render of 2161–2352 spliced with the concat filter (2353 frames checked). |
+| 22:36 | Seam check exposed an inverted incoming iris (the hole shrank instead of growing). Fixed in Film.tsx; full re-render. |
